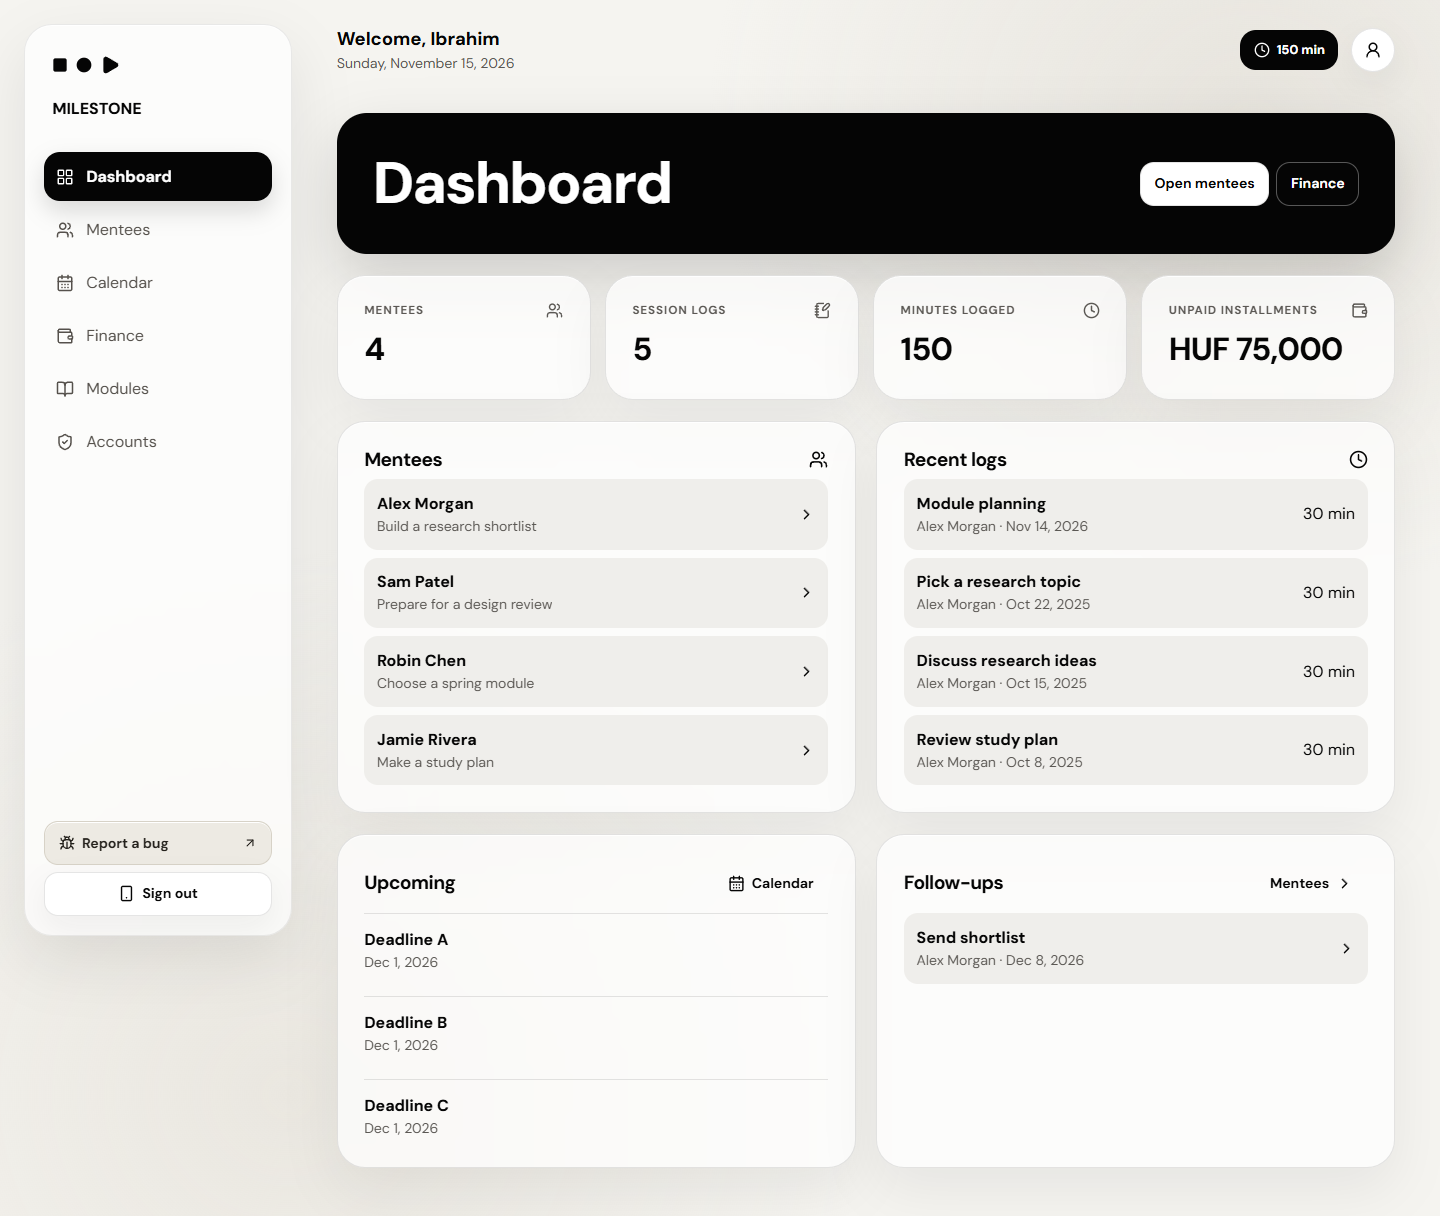
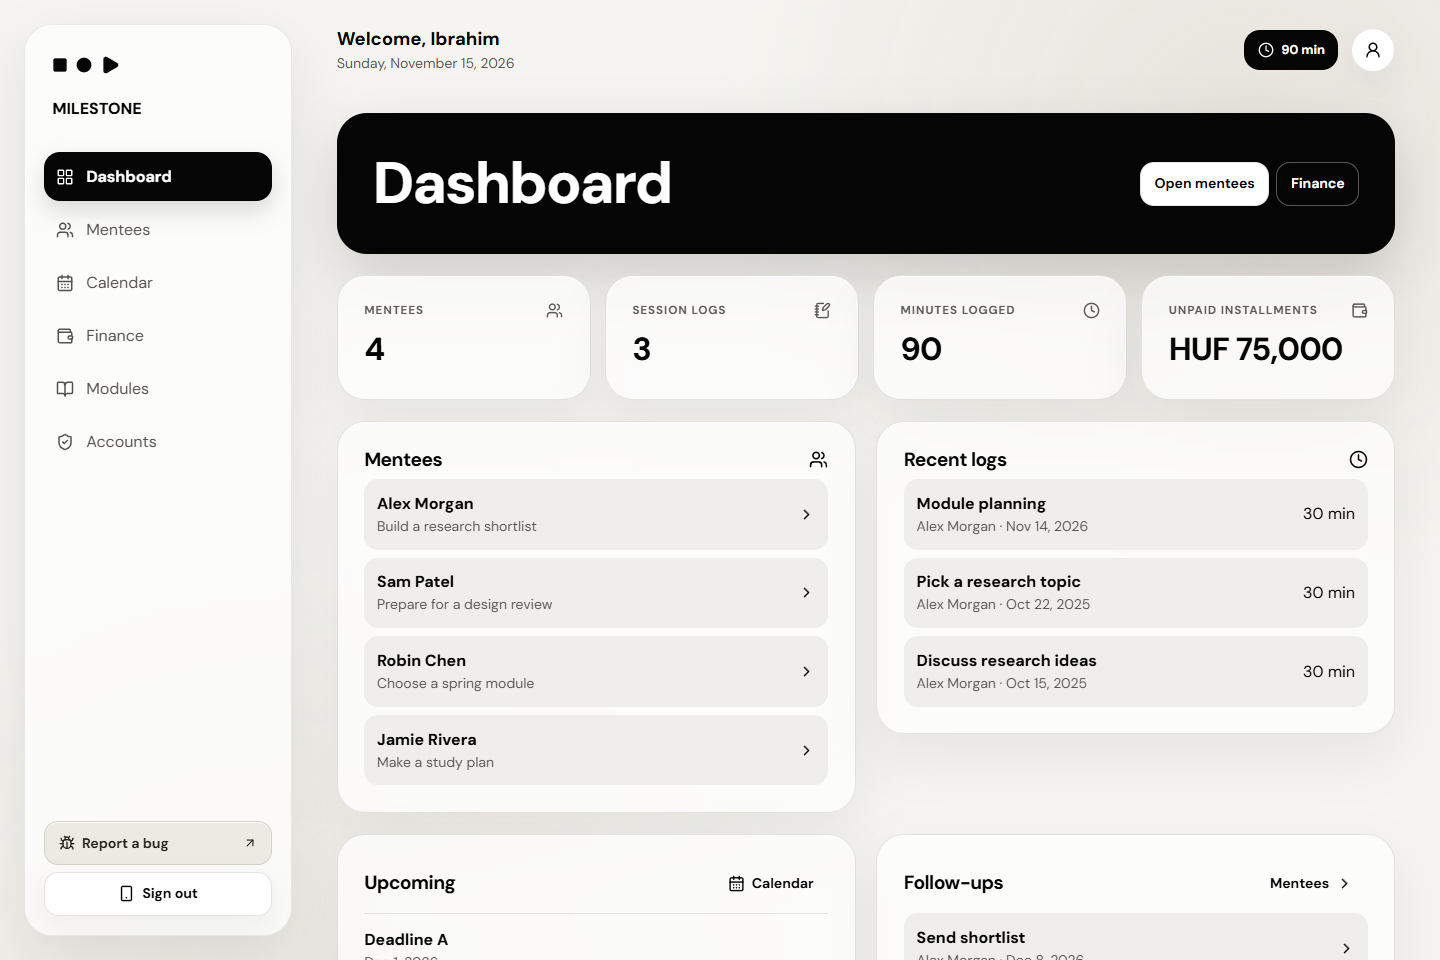
Polish dashboard previews and mentee goals

diff --git a/components/DashboardOverview.tsx b/components/DashboardOverview.tsx
@@ -4,6 +4,8 @@ import type { WorkspaceData } from '@/types';
 import { formatCurrency, formatDate, localDate, newestSessionFirst } from '@/lib/utils';
 import type { View } from './Sidebar';
 
+const previewLimit = 4;
+
 export default function DashboardOverview({ data, navigate, openMentee }: {
   data: WorkspaceData; navigate: (view: View) => void; openMentee: (id: string, sessionId?: string) => void;
 }) {
@@ -14,7 +16,7 @@ export default function DashboardOverview({ data, navigate, openMentee }: {
   const followUps = data.sessions.filter((item) => item.follow_up && !item.follow_up_completed_at)
     .sort((a, b) => a.follow_up!.localeCompare(b.follow_up!)).slice(0, 3);
   const outstanding = data.payments.filter((item) => !item.received_at).reduce((sum, item) => sum + item.amount, 0);
-  const recent = [...data.sessions].sort(newestSessionFirst).slice(0, 4);
+  const recent = [...data.sessions].sort(newestSessionFirst).slice(0, previewLimit);
   const stats = [
     { label: 'Mentees', value: data.mentees.length, Icon: Users },
     { label: 'Session logs', value: data.sessions.length, Icon: NotebookPen },
@@ -38,17 +40,20 @@ export default function DashboardOverview({ data, navigate, openMentee }: {
       <section className="panel">
         <div className="section-heading"><h2>Mentees</h2><Users size={19} aria-hidden="true" /></div>
         {!data.mentees.length && <p className="empty">No mentees yet.</p>}
-        {data.mentees.slice(0, 4).map((mentee) => <button key={mentee.id} className="record-row row-button"
+        {data.mentees.slice(0, previewLimit).map((mentee) => <button key={mentee.id} className="record-row row-button dashboard-preview-row"
           onClick={() => openMentee(mentee.id)}>
-          <div><strong>{mentee.name}</strong><p className="muted line-clamp-1">{mentee.next_milestone || mentee.goal || mentee.year_group}</p></div>
+          <div><strong className="block truncate">{mentee.name}</strong><p className="muted truncate">{mentee.goal.trim() || mentee.year_group}</p></div>
           <ChevronRight size={17} className="shrink-0" />
         </button>)}
+        {data.mentees.length > previewLimit && <button className="button subtle dashboard-view-all" onClick={() => navigate('mentees')}>
+          View all {data.mentees.length} mentees<ChevronRight size={16} aria-hidden="true" />
+        </button>}
       </section>
         <section className="panel">
           <div className="section-heading"><h2>Recent logs</h2><Clock size={19} aria-hidden="true" /></div>
           {!recent.length && <p className="empty">No logs yet.</p>}
-          {recent.map((session) => <button className="record-row row-button" key={session.id} onClick={() => openMentee(session.mentee_id, session.id)}>
-            <div><strong>{session.topic}</strong><p className="muted">
+          {recent.map((session) => <button className="record-row row-button dashboard-preview-row" key={session.id} onClick={() => openMentee(session.mentee_id, session.id)}>
+            <div><strong className="block truncate">{session.topic}</strong><p className="muted truncate">
               {data.mentees.find((mentee) => mentee.id === session.mentee_id)?.name} · {formatDate(session.date)}
             </p></div>
             <span className="shrink-0">{session.duration} min</span>

diff --git a/app/globals.css b/app/globals.css
@@ -201,7 +201,9 @@ button:disabled { opacity: .55; cursor: default; }
 .workspace .stats .stat-value { font-size: clamp(1.4rem, 3vw, 2rem); }
 .workspace .stats .muted { display: flex; justify-content: space-between; flex-direction: row-reverse; font-size: .73rem; font-weight: 700; text-transform: uppercase; letter-spacing: .08em; }
 .workspace .stats .muted svg { flex-shrink: 0; }
-.dashboard-columns { display: grid; grid-template-columns: repeat(2, minmax(0, 1fr)); gap: 1.3rem; }
+.dashboard-columns { display: grid; grid-template-columns: repeat(2, minmax(0, 1fr)); align-items: start; gap: 1.3rem; }
+.dashboard-preview-row { min-height: 4.4rem; }
+.dashboard-view-all { margin-top: .5rem; }
 .workspace .row-button { border: 0; background: #efeeeb; border-radius: 14px; padding: .8rem; }
 .workspace .row-button:hover { background: #050505; color: white; }
 .workspace .row-button:hover .muted { color: #ddd; }
@@ -319,9 +321,9 @@ button:disabled { opacity: .55; cursor: default; }
   .minutes-pill svg { display: none; }
 }
 @media (pointer: fine) and (hover: hover) and (forced-colors: none) {
-  .workspace { cursor: url('/milestone-arrow.svg') 5 4, auto; }
-  .workspace :is(a, button, summary):not(:disabled) { cursor: url('/milestone-hand.svg') 13 4, pointer; }
-  .workspace :is(input, textarea) { cursor: text; }
+  :is(.workspace, .entry-stage) { cursor: url('/milestone-arrow.svg') 5 4, auto; }
+  :is(.workspace, .entry-stage) :is(a, button, summary):not(:disabled) { cursor: url('/milestone-hand.svg') 13 4, pointer; }
+  :is(.workspace, .entry-stage) :is(input, textarea) { cursor: text; }
 }
 @media (prefers-reduced-motion: no-preference) {
   .workspace-enter { animation: workspace-enter 220ms ease-out; }

diff --git a/components/MenteeGallery.tsx b/components/MenteeGallery.tsx
@@ -41,7 +41,6 @@ export default function MenteeGallery({ mentees, sessions, openMentee, profile }
         const logs = sessions.filter((session) => session.mentee_id === item.id);
         const last = logs.reduce<Session | undefined>((latest, log) => !latest || log.date > latest.date ? log : latest, undefined);
         const followUp = logs.filter((log) => !log.follow_up_completed_at).map(({ follow_up }) => follow_up).filter(Boolean).sort()[0];
-        const priority = item.next_milestone || item.goal;
         return <button className="panel mentee-card" key={item.id} onClick={() => openMentee(item.id)}>
         <span className="flex items-start justify-between gap-3">
           <span className="min-w-0">
@@ -50,9 +49,8 @@ export default function MenteeGallery({ mentees, sessions, openMentee, profile }
           </span>
           <span className="profile-arrow"><ArrowUpRight size={19} aria-hidden="true" /></span>
         </span>
-        <span className="mentee-card-focus"><span className="card-caption"><Target size={15} aria-hidden="true" />
-          {item.next_milestone ? 'Next milestone' : 'Current goal'}</span>
-          <span className="mt-1 block line-clamp-2 break-words">{priority || 'Add a goal in Profile + goals'}</span>
+        <span className="mentee-card-focus"><span className="card-caption"><Target size={15} aria-hidden="true" />Current goal</span>
+          <span className="mt-1 block line-clamp-2 break-words">{item.goal.trim() || 'Add a goal in Profile + goals'}</span>
         </span>
         <span className="mentee-card-meta">
           <span><NotebookPen size={15} aria-hidden="true" />{last ? 'Last session · ' + formatDate(last.date) : 'No sessions logged'}</span>

diff --git a/components/MenteeDossier.tsx b/components/MenteeDossier.tsx
@@ -46,6 +46,7 @@ export default function MenteeDossier({ mentee, sessions, modules, initialSessio
         <div className="min-w-0">
           <p className="dossier-year">{mentee.year_group}{mentee.subject && ' · ' + mentee.subject}</p>
           <h1>{mentee.name}</h1>
+          {mentee.goal.trim() && <p className="muted mt-2 line-clamp-2 break-words">{mentee.goal.trim()}</p>}
         </div>
       </div>
       <div className="dossier-minutes"><Clock size={17} aria-hidden="true" /><strong>{minutes} min</strong>

diff --git a/README.md b/README.md
@@ -1,14 +1,8 @@
 # Milestone OS
 
-Milestone OS is a private workspace for mentors to manage mentees, sessions, follow-ups, calendars, and payments. It runs on Next.js and Supabase.
+Milestone OS gives mentors one place to review a mentee’s goals, record sessions, and follow up on agreed actions. Program administrators can approve accounts and maintain a shared calendar and module catalogue.
 
-![Milestone OS dashboard with sample mentees and follow-ups](docs/screenshots/dashboard.png)
-
-## Why it exists
-
-A mentor should be able to open a mentee's profile before a meeting and see what happened last time, what comes next, and who needs a follow-up. Milestone OS keeps that work in one place. Administrators approve mentor accounts, share deadlines, and maintain a common module catalogue.
-
-The same workflow can support other mentoring programs. Separate program workspaces and delegated administration are future possibilities. The current release provides private mentor data and a shared catalogue within one installation.
+[Open Milestone OS](https://milestone-os-two.vercel.app)
 
 ## What you can do
 
@@ -16,18 +10,25 @@ The same workflow can support other mentoring programs. Separate program workspa
 - Record sessions and due dates. Mark a next action done to clear it from the dashboard, or reopen it from its session log.
 - Track meetings and deadlines, open Skedda, and export events to Google or Apple Calendar.
 - Record installments and see gross pay, estimated net pay, and money received.
-- Use the admin account to approve mentors, publish shared calendar events, and manage modules.
+- Approve mentor accounts, publish shared events, and manage modules as an administrator.
 
 ## Screenshots
 
-Screenshots use sample data.
+Browser screenshots use sample data and show a single viewport at 100% zoom.
 
-![Session logs showing notes, a next action, and its follow-up date](docs/screenshots/session-log.png)
+### Desktop dashboard · 1440 × 960
 
-<p>
-  <img src="docs/screenshots/sign-in.png" alt="Click-wheel sign-in screen" width="300">
-  <img src="docs/screenshots/mobile-navigation.png" alt="Mobile menu with the Report a bug button" width="240">
-</p>
+![Desktop dashboard with mentee previews, recent session logs, and follow-ups](docs/screenshots/dashboard.png)
+
+### Mobile mentee profiles · 390 × 844
+
+![Mobile mentee profiles with a current goal on each card](docs/screenshots/mentee-profiles-mobile.png)
+
+## Tech stack
+
+- Next.js, React, TypeScript, and Tailwind CSS for the app
+- Supabase Auth and PostgreSQL with row-level security
+- Vercel for hosting, Resend for signup alerts, and GitHub Actions for CI
 
 ## Run locally
 
@@ -42,8 +43,12 @@ Open [Milestone OS locally](http://localhost:3000). Run `npm run lint`, `npm run
 
 ## Deploy
 
-The [live app](https://milestone-os-two.vercel.app) deploys from the `master` branch of this repository.
+Vercel deploys the `master` branch of this repository to production.
 
 Import the repository into Vercel and add the variables from [`.env.example`](.env.example) in the project settings. Use the production URL for `APP_URL` and the Supabase Auth Site URL. Follow the [setup guide](docs/setup.md) for database migrations, email delivery, and the first administrator.
 
 [System diagrams](docs/architecture.md) · [Release notes](https://github.com/ibrahimify/milestoneOS/releases) · [Report a bug](https://github.com/ibrahimify)
+
+## License
+
+Copyright © 2026 Muhammad Ibrahim Shoeb. All rights reserved. See [LICENSE](LICENSE).
